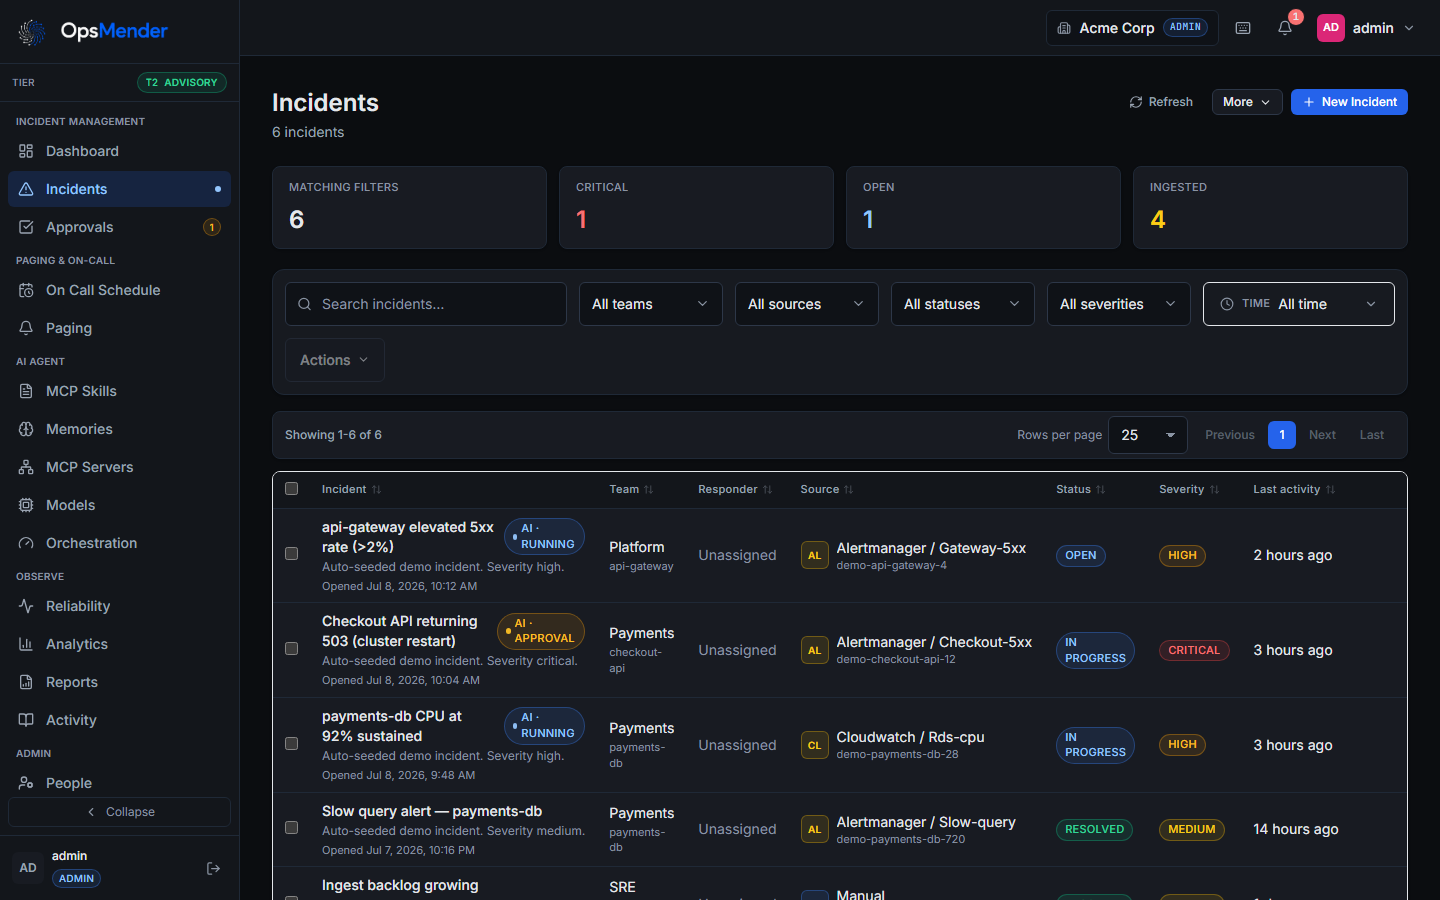
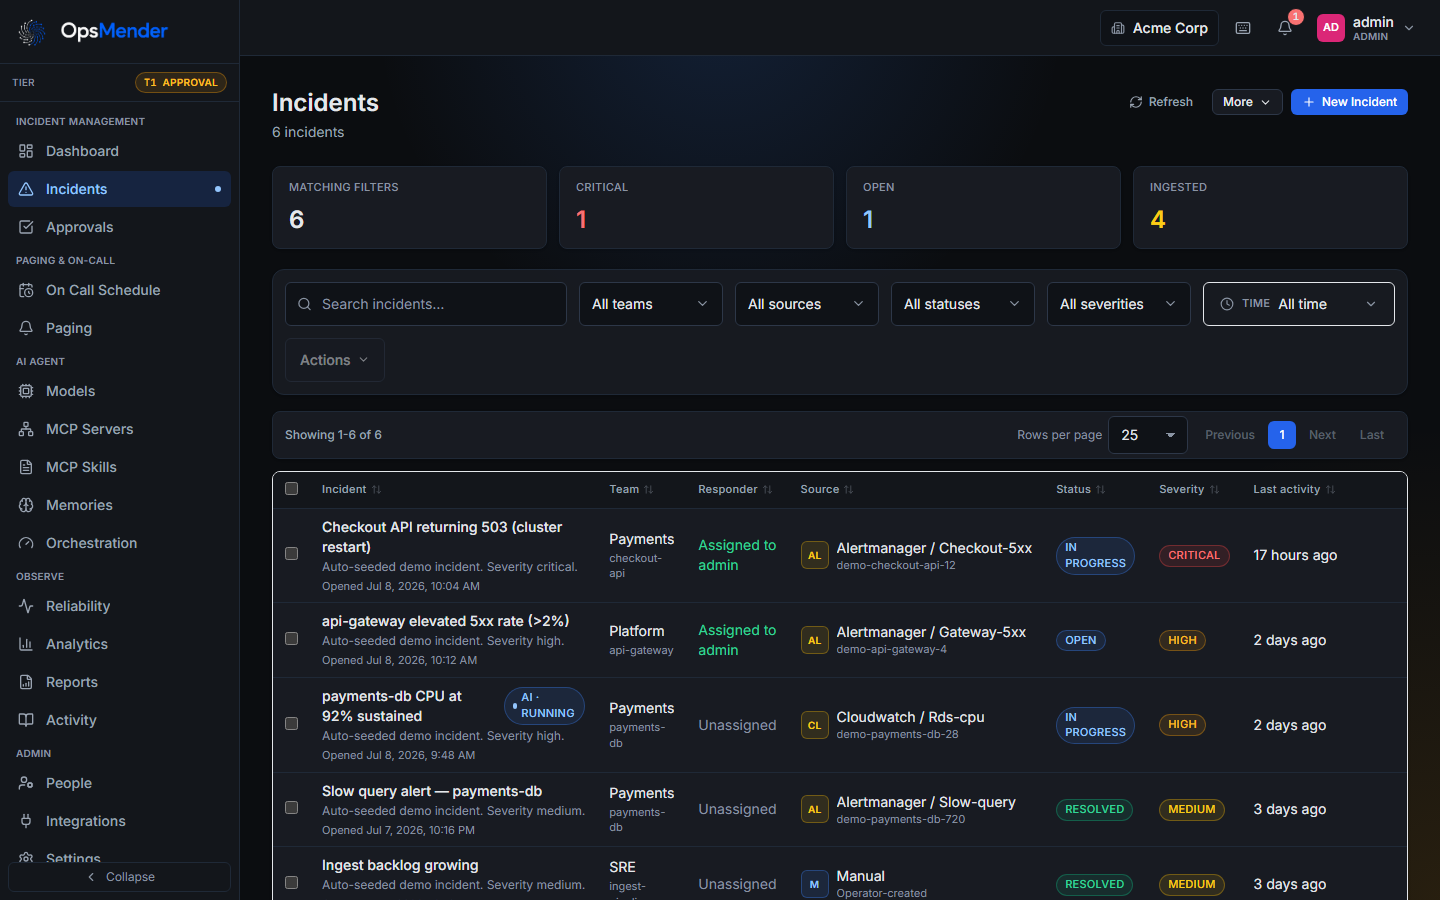
docs: refresh incidents screenshot with gradient backdrop; add AI autonomy tier (T0/T1/T2) screenshots to README

diff --git a/README.md b/README.md
@@ -39,6 +39,13 @@ Install it, invite your on-call operators, connect a model and your MCP servers,
 | ![Pending approvals inbox with request context and approve or reject actions](site/public/screenshots/approvals-pending.png) | ![Settings page with session workflow, models, notifications, and workspace controls](site/public/screenshots/settings.png) |
 | Review Tier 1 actions with context before anything runs. | Configure workspace policy, session workflow, notifications, models, and guardrails. |
 
+**AI autonomy tiers** — the tier gate is enforced in code. Set the default per workspace and override it per session.
+
+| Tier 0 · Autonomous | Tier 1 · Approval Required | Tier 2 · Advisory (default) |
+| --- | --- | --- |
+| ![Workspace settings with the AI autonomy tier set to Tier 0 Autonomous and the destructive-action warning](site/public/screenshots/tier-0.png) | ![Workspace settings with the AI autonomy tier set to Tier 1 Approval Required](site/public/screenshots/tier-1.png) | ![Workspace settings with the AI autonomy tier set to Tier 2 Advisory Only](site/public/screenshots/tier-2.png) |
+| Executes remediation autonomously within skill policy, with a reversibility floor and rollback. | Reads run automatically; every write pauses for operator approval. | Read-only analysis and recommendations — nothing executes. |
+
 ## Features
 
 - **Three-tier AI autonomy** — Tier 0 Autonomous (sandbox + time limits + auto-rollback), Tier 1 Approval-Required, Tier 2 Advisory-Only (default).
